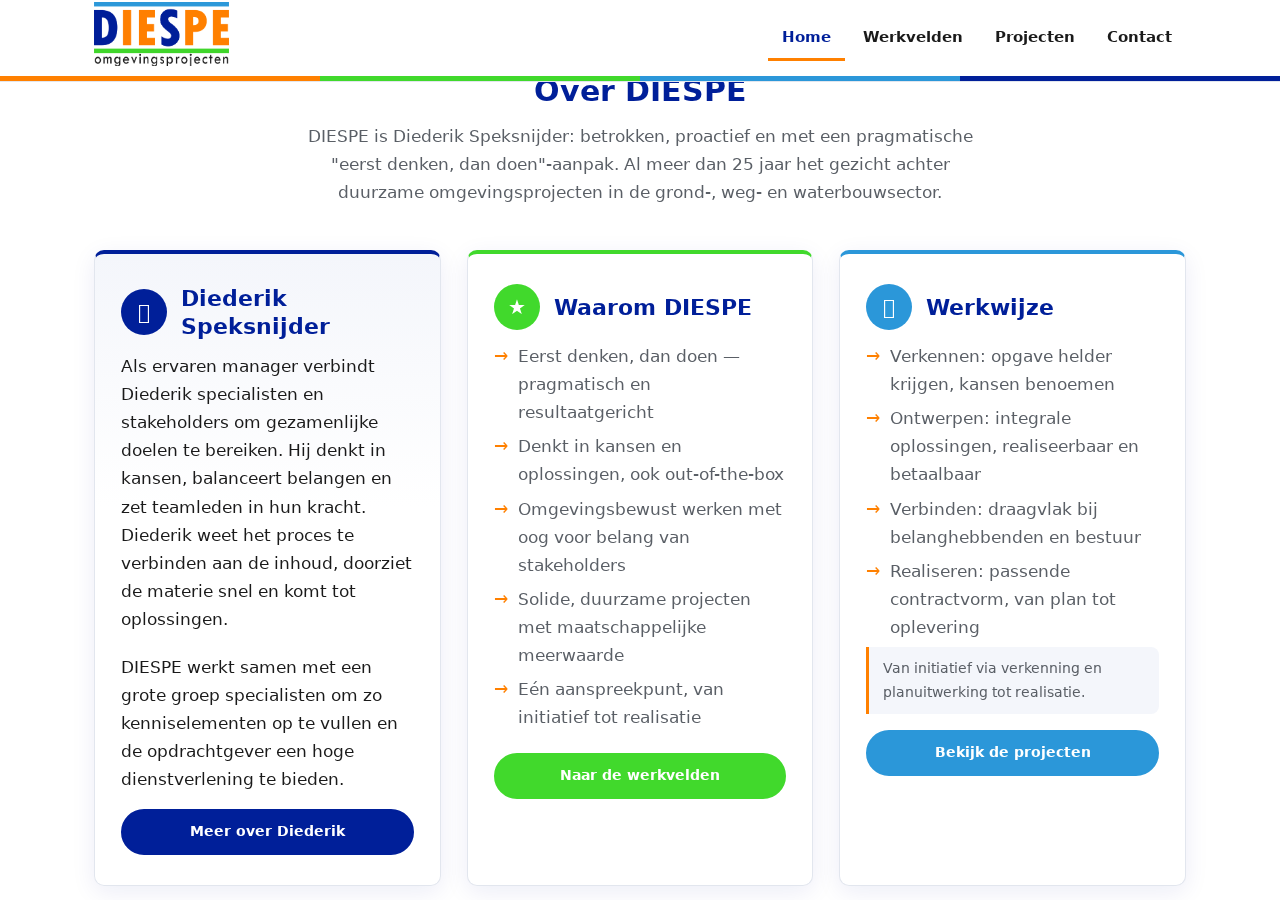
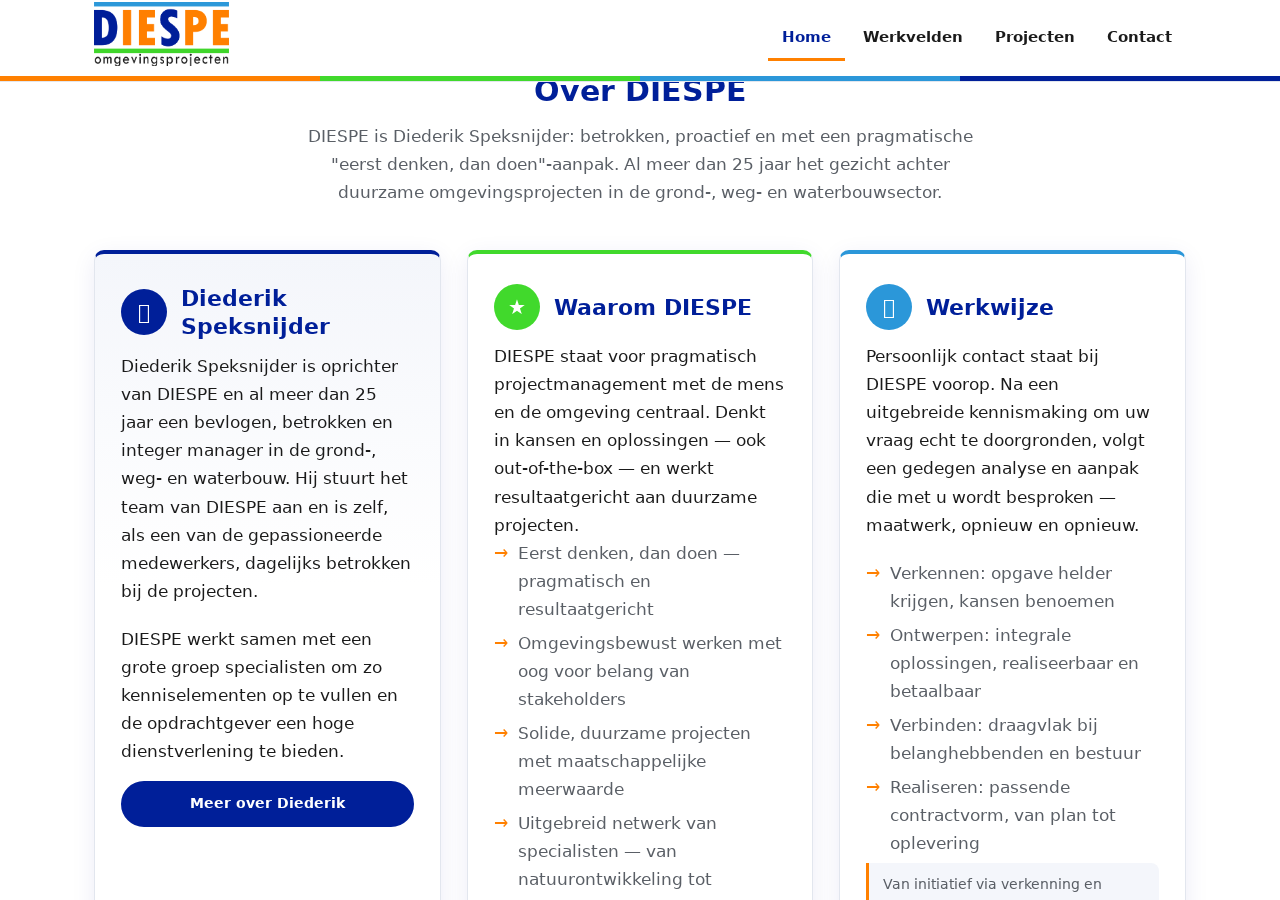
Over DIESPE-kolommen verdiepen: oprichter, beschrijvende alinea's en netwerk/specialisten

Changed region(s): [[0.0938, 0.4044, 0.3438, 0.9644], [0.6562, 0.3733, 0.9062, 0.9956], [0.375, 0.3733, 0.625, 0.9956]]

diff --git a/preview/index.html b/preview/index.html
@@ -151,23 +151,25 @@
     <div class="grid-3">
       <div class="card card--diederik">
         <div class="card-header"><span class="card-icon" aria-hidden="true">&#128100;</span><h3>Diederik Speksnijder</h3></div>
-        <p>Als ervaren manager verbindt Diederik specialisten en stakeholders om gezamenlijke doelen te bereiken. Hij denkt in kansen, balanceert belangen en zet teamleden in hun kracht. Diederik weet het proces te verbinden aan de inhoud, doorziet de materie snel en komt tot oplossingen.</p>
+        <p>Diederik Speksnijder is oprichter van DIESPE en al meer dan 25 jaar een bevlogen, betrokken en integer manager in de grond-, weg- en waterbouw. Hij stuurt het team van DIESPE aan en is zelf, als een van de gepassioneerde medewerkers, dagelijks betrokken bij de projecten.</p>
         <p>DIESPE werkt samen met een grote groep specialisten om zo kenniselementen op te vullen en de opdrachtgever een hoge dienstverlening te bieden.</p>
         <a class="btn btn--kleur1 card-more" href="#">Meer over Diederik</a>
       </div>
       <div class="card">
         <div class="card-header"><span class="card-icon" aria-hidden="true">&#9733;</span><h3>Waarom DIESPE</h3></div>
+        <p>DIESPE staat voor pragmatisch projectmanagement met de mens en de omgeving centraal. Denkt in kansen en oplossingen &mdash; ook out-of-the-box &mdash; en werkt resultaatgericht aan duurzame projecten.</p>
         <ul>
           <li>Eerst denken, dan doen &mdash; pragmatisch en resultaatgericht</li>
-          <li>Denkt in kansen en oplossingen, ook out-of-the-box</li>
           <li>Omgevingsbewust werken met oog voor belang van stakeholders</li>
           <li>Solide, duurzame projecten met maatschappelijke meerwaarde</li>
+          <li>Uitgebreid netwerk van specialisten &mdash; van natuurontwikkeling tot rioleringstechniek</li>
           <li>E&eacute;n aanspreekpunt, van initiatief tot realisatie</li>
         </ul>
         <a class="btn btn--kleur2 card-more" href="#">Naar de werkvelden</a>
       </div>
       <div class="card">
         <div class="card-header"><span class="card-icon" aria-hidden="true">&#127757;</span><h3>Werkwijze</h3></div>
+        <p>Persoonlijk contact staat bij DIESPE voorop. Na een uitgebreide kennismaking om uw vraag echt te doorgronden, volgt een gedegen analyse en aanpak die met u wordt besproken &mdash; maatwerk, opnieuw en opnieuw.</p>
         <ul>
           <li>Verkennen: opgave helder krijgen, kansen benoemen</li>
           <li>Ontwerpen: integrale oplossingen, realiseerbaar en betaalbaar</li>

diff --git a/front-page.php b/front-page.php
@@ -42,8 +42,8 @@ $kaarten = array(
 
 $over_intro = diespe_home_text( 'over_intro', __( 'DIESPE is Diederik Speksnijder: betrokken, proactief en met een pragmatische "eerst denken, dan doen"-aanpak. Al meer dan 25 jaar het gezicht achter duurzame omgevingsprojecten in de grond-, weg- en waterbouwsector.', 'diespe' ) );
 $over_naam  = diespe_home_text( 'over_naam', __( 'Diederik Speksnijder', 'diespe' ) );
-$over_tekst1 = diespe_home_text( 'over_tekst1', __( 'Als ervaren manager verbindt Diederik specialisten en stakeholders om gezamenlijke doelen te bereiken. Hij denkt in kansen, balanceert belangen en zet teamleden in hun kracht. Diederik weet het proces te verbinden aan de inhoud, doorziet de materie snel en komt tot oplossingen.', 'diespe' ) );
-$over_tekst2 = diespe_home_text( 'over_tekst2', __( 'Met de focus op duurzame, effici&euml;nte oplossingen realiseert hij solide projecten met maatschappelijke meerwaarde die voldoen aan de behoeften van de gemeenschap.', 'diespe' ) );
+$over_tekst1 = diespe_home_text( 'over_tekst1', __( 'Diederik Speksnijder is oprichter van DIESPE en al meer dan 25 jaar een bevlogen, betrokken en integer manager in de grond-, weg- en waterbouw. Hij stuurt het team van DIESPE aan en is zelf, als een van de gepassioneerde medewerkers, dagelijks betrokken bij de projecten.', 'diespe' ) );
+$over_tekst2 = diespe_home_text( 'over_tekst2', __( 'Diederik verbindt het proces aan de inhoud, doorziet de materie snel en komt tot oplossingen. Met de focus op duurzame, effici&euml;nte oplossingen realiseert hij solide projecten met maatschappelijke meerwaarde.', 'diespe' ) );
 ?>
 
 <section class="hero">
@@ -177,15 +177,15 @@ $over_tekst2 = diespe_home_text( 'over_tekst2', __( 'Met de focus op duurzame, e
 			<div class="card">
 				<div class="card-header">
 					<span class="card-icon" aria-hidden="true">&#9733;</span>
-					<h3><?php esc_html_e( 'Kernkwaliteiten', 'diespe' ); ?></h3>
+					<h3><?php esc_html_e( 'Waarom DIESPE', 'diespe' ); ?></h3>
 				</div>
+				<p><?php esc_html_e( 'DIESPE staat voor pragmatisch projectmanagement met de mens en de omgeving centraal. Denkt in kansen en oplossingen — ook out-of-the-box — en werkt resultaatgericht aan duurzame projecten.', 'diespe' ); ?></p>
 				<ul>
-					<li><?php esc_html_e( 'Eerst denken, dan doen', 'diespe' ); ?></li>
-					<li><?php esc_html_e( 'Denkt in kansen en oplossingen', 'diespe' ); ?></li>
-					<li><?php esc_html_e( 'Verbindt specialisten en stakeholders', 'diespe' ); ?></li>
-					<li><?php esc_html_e( 'Omgevingsgericht werken, oog voor belang van stakeholders', 'diespe' ); ?></li>
-					<li><?php esc_html_e( 'Integrale benadering, innovatieve methoden', 'diespe' ); ?></li>
-					<li><?php esc_html_e( 'Maatschappelijke meerwaarde als uitgangspunt', 'diespe' ); ?></li>
+					<li><?php esc_html_e( 'Eerst denken, dan doen — pragmatisch en resultaatgericht', 'diespe' ); ?></li>
+					<li><?php esc_html_e( 'Omgevingsbewust werken met oog voor belang van stakeholders', 'diespe' ); ?></li>
+					<li><?php esc_html_e( 'Solide, duurzame projecten met maatschappelijke meerwaarde', 'diespe' ); ?></li>
+					<li><?php esc_html_e( 'Uitgebreid netwerk van specialisten — van natuurontwikkeling tot rioleringstechniek', 'diespe' ); ?></li>
+					<li><?php esc_html_e( 'Eén aanspreekpunt, van initiatief tot realisatie', 'diespe' ); ?></li>
 				</ul>
 				<a class="btn btn--kleur2 card-more" href="<?php echo esc_url( home_url( '/werkvelden/' ) ); ?>"><?php esc_html_e( 'Naar de werkvelden', 'diespe' ); ?></a>
 			</div>
@@ -194,6 +194,7 @@ $over_tekst2 = diespe_home_text( 'over_tekst2', __( 'Met de focus op duurzame, e
 					<span class="card-icon" aria-hidden="true">&#127757;</span>
 					<h3><?php esc_html_e( 'Werkwijze', 'diespe' ); ?></h3>
 				</div>
+				<p><?php esc_html_e( 'Persoonlijk contact staat bij DIESPE voorop. Na een uitgebreide kennismaking om uw vraag echt te doorgronden, volgt een gedegen analyse en aanpak die met u wordt besproken — maatwerk, opnieuw en opnieuw.', 'diespe' ); ?></p>
 				<ul>
 					<li><?php esc_html_e( 'Verkennen: opgave helder krijgen, kansen benoemen', 'diespe' ); ?></li>
 					<li><?php esc_html_e( 'Ontwerpen: integrale oplossingen, realiseerbaar en betaalbaar', 'diespe' ); ?></li>
